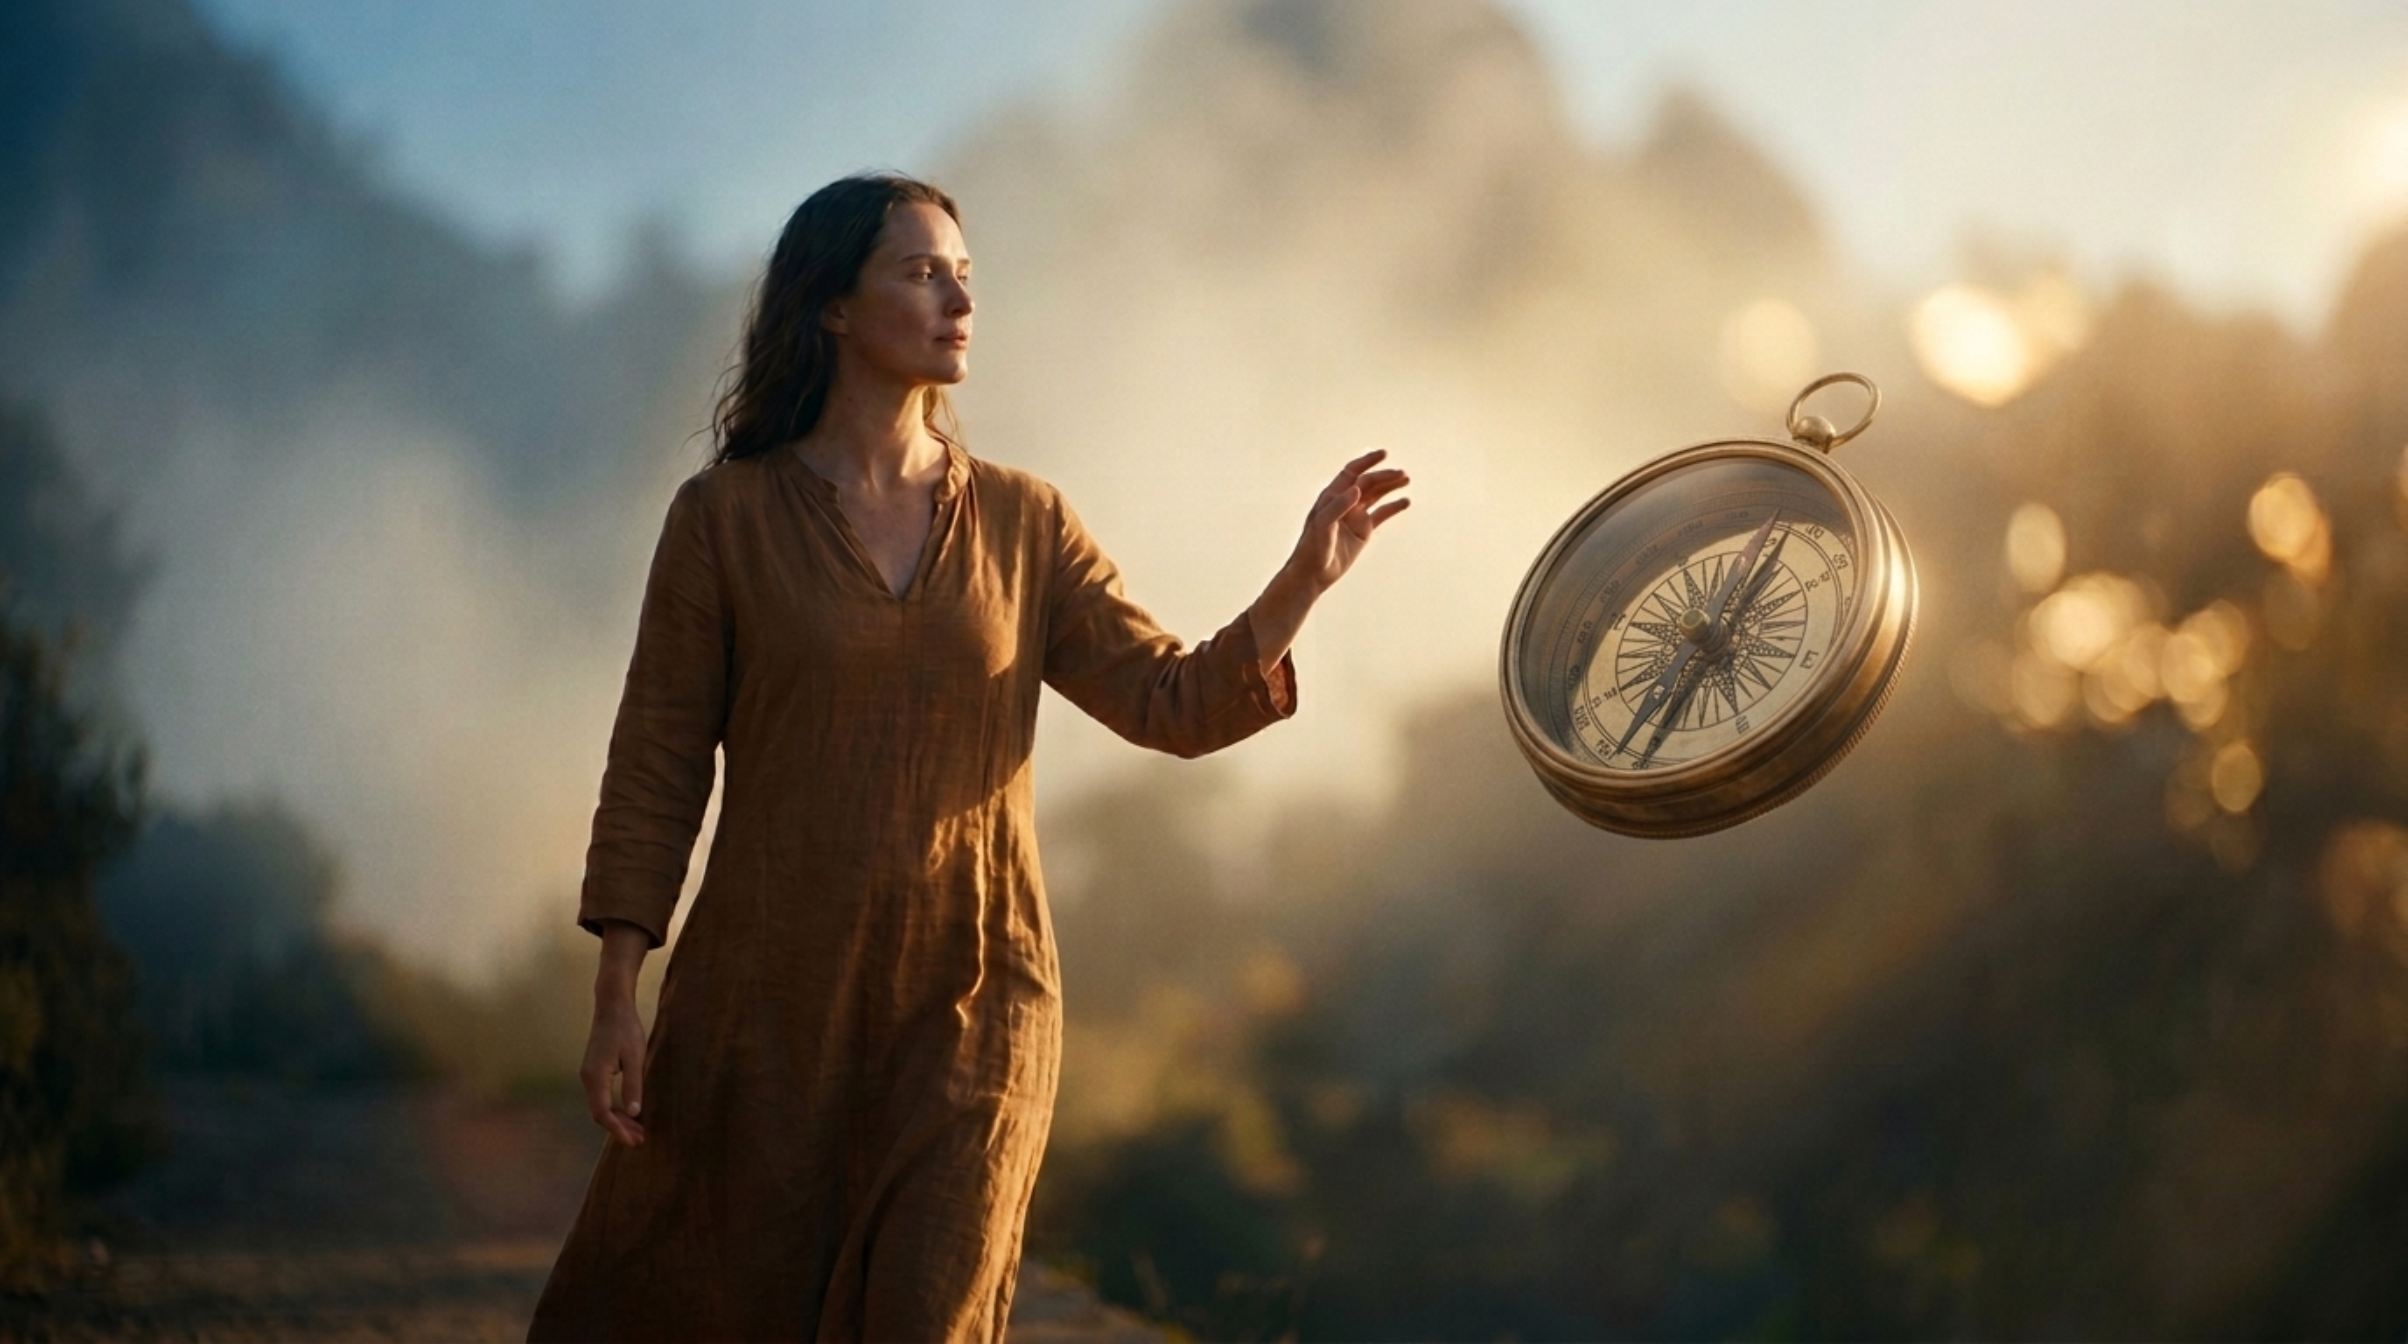
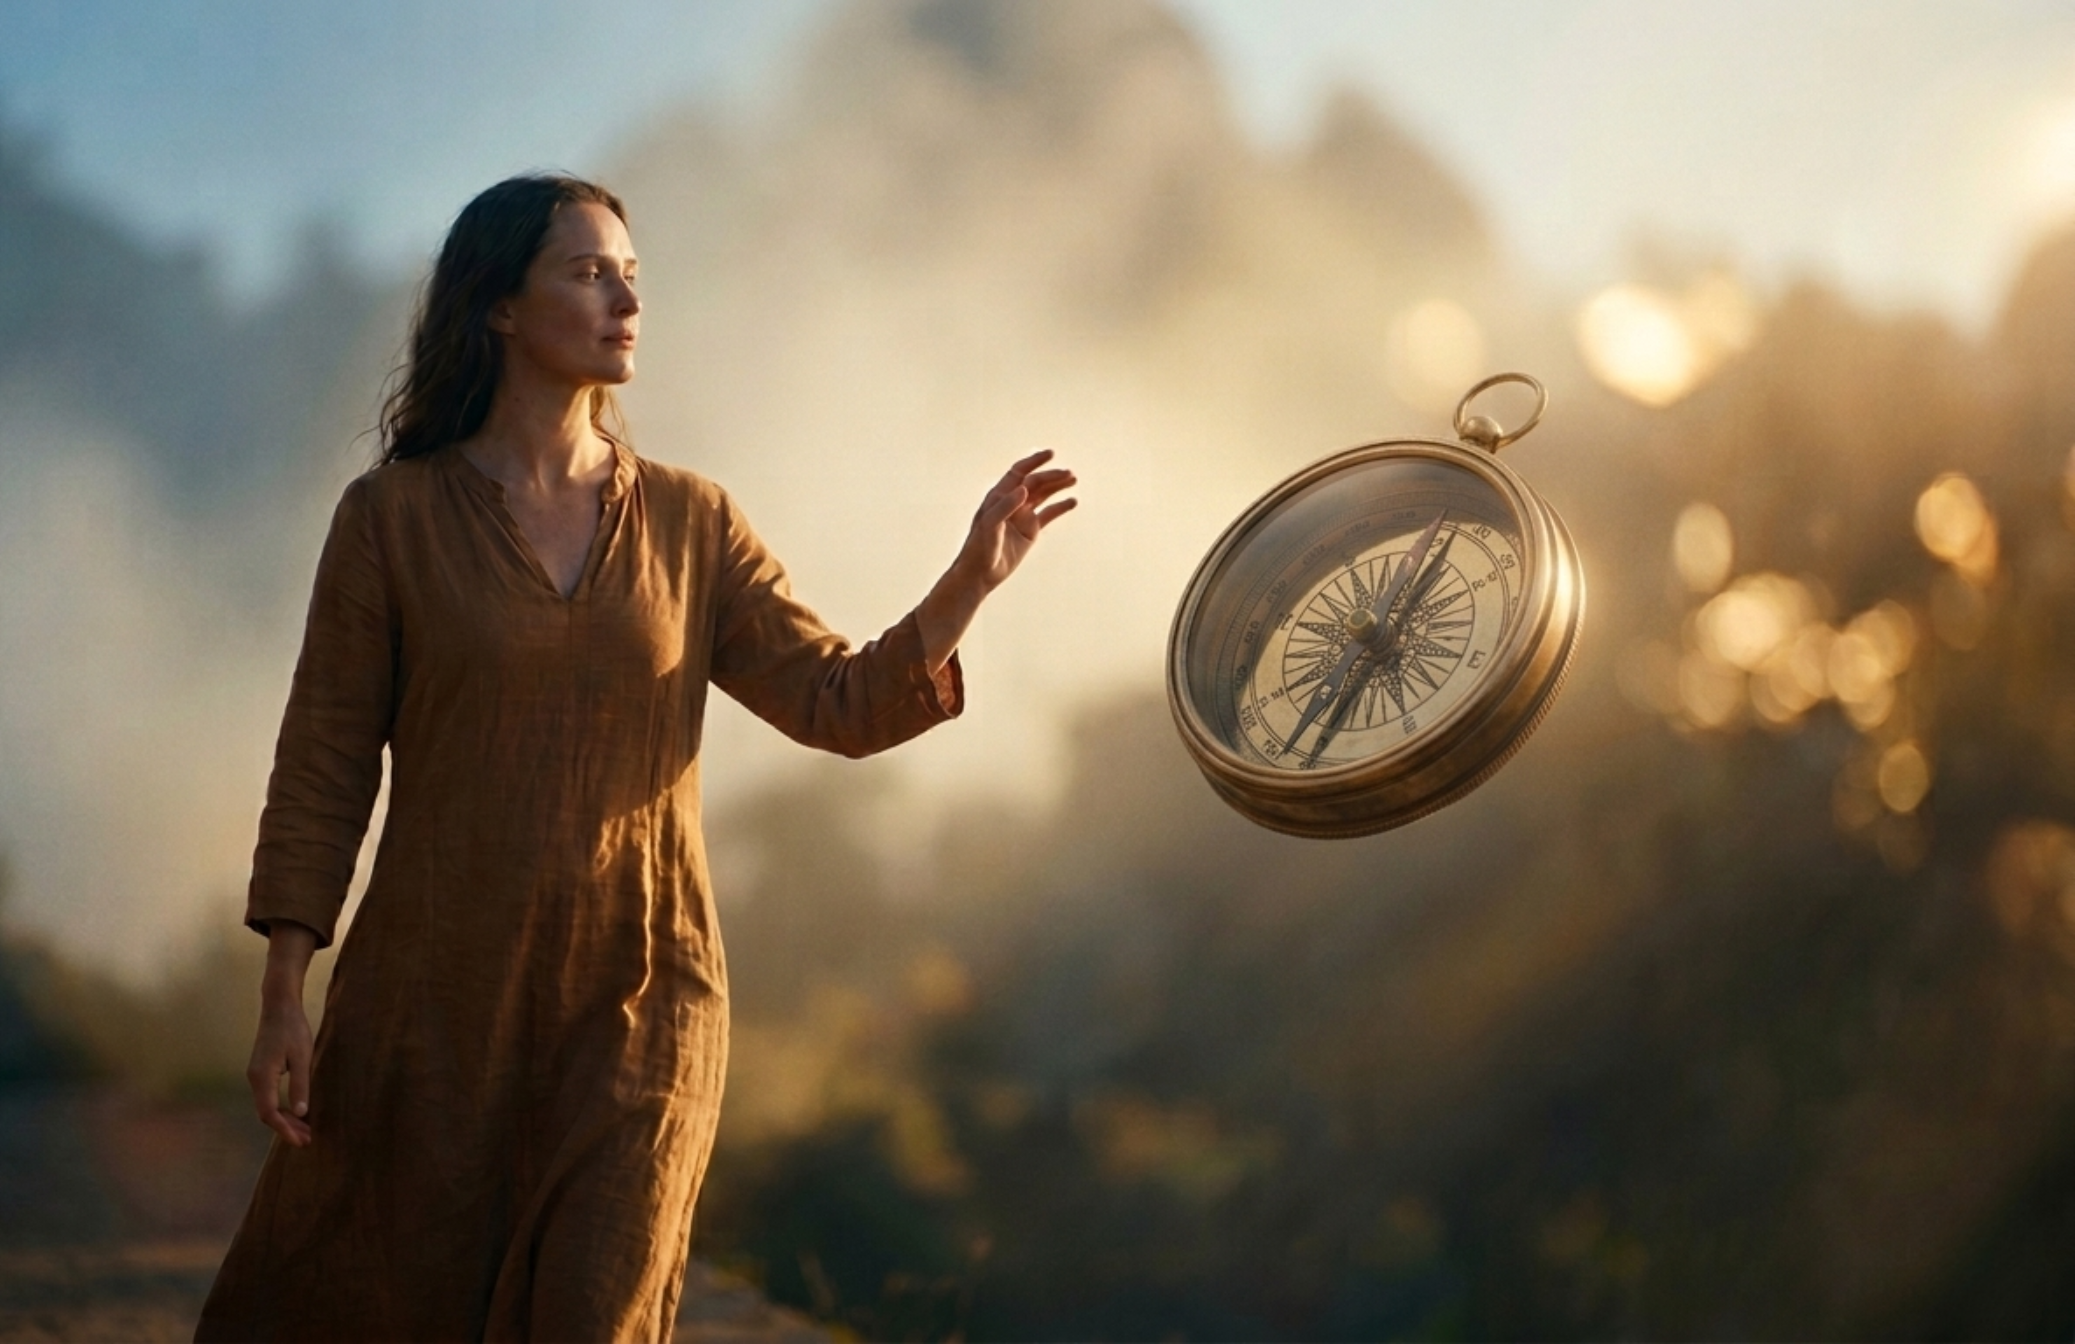
feat: updated image for ArchitectureSector and softened gradient

diff --git a/components/home/ArchitectureSector.tsx b/components/home/ArchitectureSector.tsx
@@ -10,17 +10,17 @@ export default function ArchitectureSector() {
         <section className="relative min-h-[850px] flex items-center overflow-x-clip bg-[#2D2926] pt-16 pb-16 md:pt-32 md:pb-32">
             {/* Background Image Container with Gradient Fade */}
             <div className="absolute inset-0 top-0 z-0">
-                <div className="relative w-full h-full lg:w-[80%] lg:-left-24">
+                <div className="relative w-full h-full">
                     <Image
-                        src="/images/home_redesign/Web-Yelitze12.png"
+                        src="/images/home_redesign/Arquitectura_intencional.png"
                         alt="Arquitectura de Vida"
                         fill
                         className="object-cover object-left opacity-100"
                         priority
                     />
-                    {/* Gradient Overlays for smooth blending into dark background */}
-                    <div className="absolute inset-0 bg-gradient-to-r from-transparent via-[#2D2926]/40 to-[#2D2926]" />
-                    <div className="absolute inset-0 bg-gradient-to-t from-[#2D2926] via-transparent to-transparent" />
+                    {/* Gradient Overlays for smooth blending - Softened to see subject better */}
+                    <div className="absolute inset-0 bg-gradient-to-r from-transparent via-[#2D2926]/10 to-[#2D2926]" />
+                    <div className="absolute inset-0 bg-gradient-to-t from-[#2D2926]/60 via-transparent to-transparent" />
                 </div>
             </div>
 
